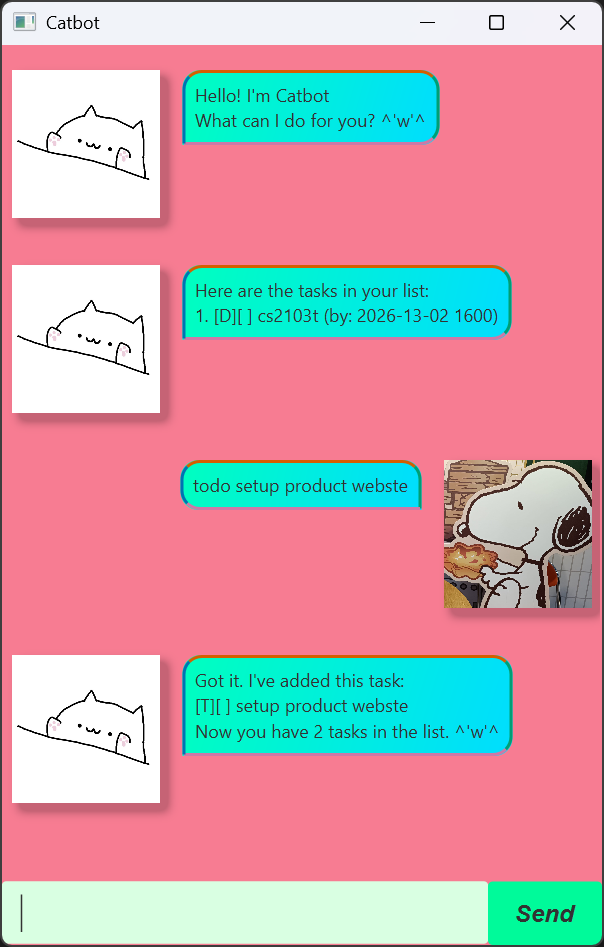
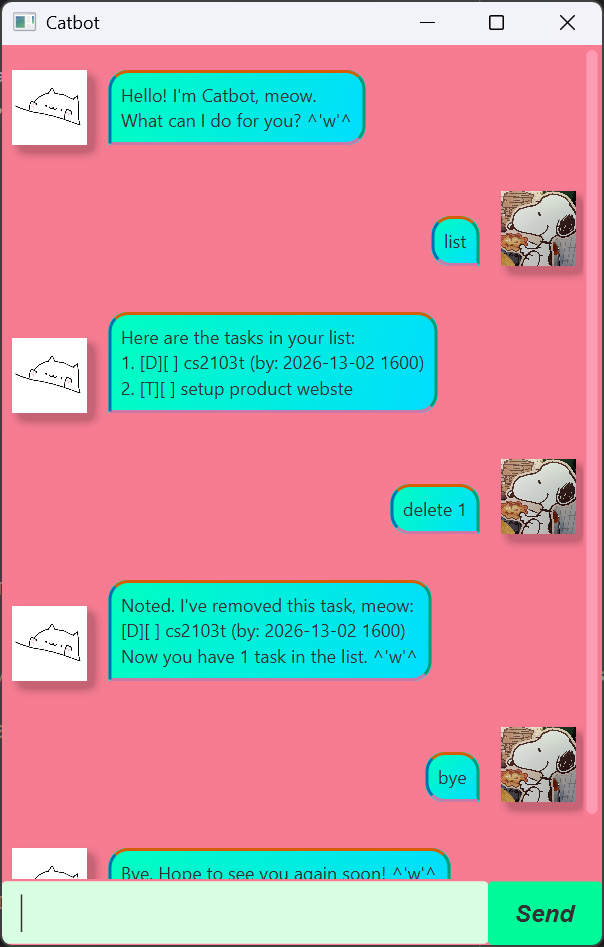
Update end user docs

diff --git a/docs/README.md b/docs/README.md
@@ -115,5 +115,5 @@ Format: `bye`
 
 ## Saving the data
 
-Catbot data is saved in the hard disk when you send the `bye` command.
-Closing the program before sending `bye` will discard all changes made to the task list.
+Catbot data is saved in the hard disk when you send the `bye` command
+or close the app by clicking on the X button.
